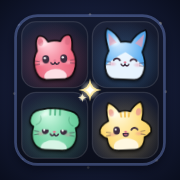
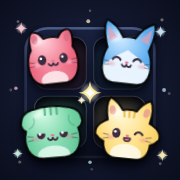
アイコンを、猫が盤面から飛び出すデザインに差し替え
- icon-180 / 192 / 512 / maskable-512 を新しいデザインに
- sw.js の保存の番号を puru-v1 → puru-v2 に上げ、端末に古いアイコンが残らないようにした

Claude-Session: https://claude.ai/code/session_01BsQt1a5AopJJ4qEB5259ej

diff --git a/sw.js b/sw.js
@@ -1,6 +1,6 @@
 // オフラインで遊べるように、ゲームのファイル（フォントも）を端末に保存する。
 // 新しい版を公開したときは、下の CACHE の番号を1つ上げる（古い保存を捨てて、新しいものに入れかえる）。
-const CACHE = 'puru-v1';
+const CACHE = 'puru-v2';
 const FILES = ['./', './index.html', './manifest.webmanifest', './fonts.css', './icon-180.png', './icon-192.png', './icon-512.png', './icon-maskable-512.png', './fonts/mplus-400-0.woff2', './fonts/mplus-400-1.woff2', './fonts/mplus-400-10.woff2', './fonts/mplus-400-11.woff2', './fonts/mplus-400-12.woff2', './fonts/mplus-400-13.woff2', './fonts/mplus-400-14.woff2', './fonts/mplus-400-15.woff2', './fonts/mplus-400-16.woff2', './fonts/mplus-400-17.woff2', './fonts/mplus-400-18.woff2', './fonts/mplus-400-19.woff2', './fonts/mplus-400-2.woff2', './fonts/mplus-400-20.woff2', './fonts/mplus-400-21.woff2', './fonts/mplus-400-22.woff2', './fonts/mplus-400-23.woff2', './fonts/mplus-400-24.woff2', './fonts/mplus-400-25.woff2', './fonts/mplus-400-26.woff2', './fonts/mplus-400-27.woff2', './fonts/mplus-400-28.woff2', './fonts/mplus-400-29.woff2', './fonts/mplus-400-3.woff2', './fonts/mplus-400-30.woff2', './fonts/mplus-400-31.woff2', './fonts/mplus-400-32.woff2', './fonts/mplus-400-33.woff2', './fonts/mplus-400-34.woff2', './fonts/mplus-400-4.woff2', './fonts/mplus-400-5.woff2', './fonts/mplus-400-6.woff2', './fonts/mplus-400-7.woff2', './fonts/mplus-400-8.woff2', './fonts/mplus-400-9.woff2', './fonts/mplus-700-35.woff2', './fonts/mplus-700-36.woff2', './fonts/mplus-700-37.woff2', './fonts/mplus-700-38.woff2', './fonts/mplus-700-39.woff2', './fonts/mplus-700-40.woff2', './fonts/mplus-700-41.woff2', './fonts/mplus-700-42.woff2', './fonts/mplus-700-43.woff2', './fonts/mplus-700-44.woff2', './fonts/mplus-700-45.woff2', './fonts/mplus-700-46.woff2', './fonts/mplus-700-47.woff2', './fonts/mplus-700-48.woff2', './fonts/mplus-700-49.woff2', './fonts/mplus-700-50.woff2', './fonts/mplus-700-51.woff2', './fonts/mplus-700-52.woff2', './fonts/mplus-700-53.woff2', './fonts/mplus-700-54.woff2', './fonts/mplus-700-55.woff2', './fonts/mplus-700-56.woff2', './fonts/mplus-700-57.woff2', './fonts/mplus-700-58.woff2', './fonts/mplus-700-59.woff2', './fonts/mplus-700-60.woff2', './fonts/mplus-700-61.woff2', './fonts/mplus-700-62.woff2', './fonts/mplus-700-63.woff2', './fonts/mplus-700-64.woff2', './fonts/mplus-700-65.woff2', './fonts/mplus-700-66.woff2', './fonts/mplus-700-67.woff2', './fonts/mplus-700-68.woff2', './fonts/mplus-700-69.woff2', './fonts/mplus-800-100.woff2', './fonts/mplus-800-101.woff2', './fonts/mplus-800-102.woff2', './fonts/mplus-800-103.woff2', './fonts/mplus-800-104.woff2', './fonts/mplus-800-70.woff2', './fonts/mplus-800-71.woff2', './fonts/mplus-800-72.woff2', './fonts/mplus-800-73.woff2', './fonts/mplus-800-74.woff2', './fonts/mplus-800-75.woff2', './fonts/mplus-800-76.woff2', './fonts/mplus-800-77.woff2', './fonts/mplus-800-78.woff2', './fonts/mplus-800-79.woff2', './fonts/mplus-800-80.woff2', './fonts/mplus-800-81.woff2', './fonts/mplus-800-82.woff2', './fonts/mplus-800-83.woff2', './fonts/mplus-800-84.woff2', './fonts/mplus-800-85.woff2', './fonts/mplus-800-86.woff2', './fonts/mplus-800-87.woff2', './fonts/mplus-800-88.woff2', './fonts/mplus-800-89.woff2', './fonts/mplus-800-90.woff2', './fonts/mplus-800-91.woff2', './fonts/mplus-800-92.woff2', './fonts/mplus-800-93.woff2', './fonts/mplus-800-94.woff2', './fonts/mplus-800-95.woff2', './fonts/mplus-800-96.woff2', './fonts/mplus-800-97.woff2', './fonts/mplus-800-98.woff2', './fonts/mplus-800-99.woff2'];
 self.addEventListener('install', e => e.waitUntil(
   caches.open(CACHE).then(c => c.addAll(FILES.map(u => new Request(u, { cache: 'reload' })))).then(() => self.skipWaiting())
